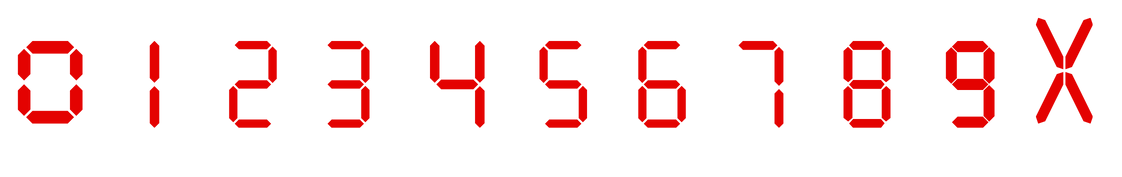
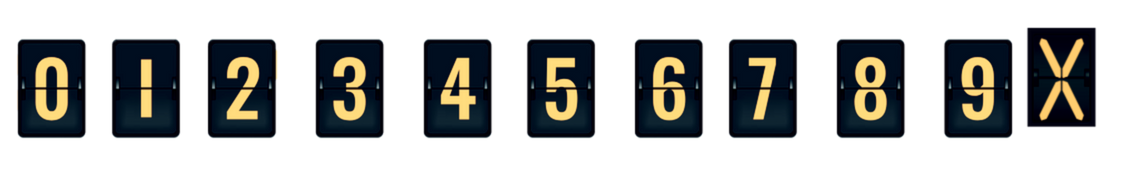
fx

diff --git a/packages/constants-shared/particleConfig/fountain.ts b/packages/constants-shared/particleConfig/fountain.ts
@@ -1,54 +1,19 @@
 export default {
-	alpha: {
-		start: 1,
-		end: 1,
-	},
-	scale: {
-		start: 0.3,
-		end: 0.4,
-		minimumScaleMultiplier: 1,
-	},
-	color: {
-		start: '#ffffff',
-		end: '#ffffff',
-	},
-	speed: {
-		start: 700,
-		end: 800,
-		minimumSpeedMultiplier: 1,
-	},
-	acceleration: {
-		x: 0,
-		y: 600,
-	},
-	maxSpeed: 0,
-	startRotation: {
-		min: 255,
-		max: 285,
-	},
+	alpha: { start: 1, end: 1 },
+	scale: { start: 1.8, end: 0.2, minimumScaleMultiplier: 1 },
+	color: { start: '#fff200', end: '#ff6f00' },
+	speed: { start: 30, end: 30, minimumSpeedMultiplier: 1 },
+	acceleration: { x: 0, y: 0 },
+	maxSpeed: 40,
+	startRotation: { min: 0, max: 0 },
 	noRotation: false,
-	rotationSpeed: {
-		min: -90,
-		max: 90,
-	},
-	lifetime: {
-		min: 6,
-		max: 6,
-	},
-	blendMode: 'normal',
-	frequency: 0.4,
+	rotationSpeed: { min: 0, max: 0 },
+	lifetime: { min: 1, max: 2 },
+	blendMode: 'add',
+	frequency: 0.01,
 	emitterLifetime: -1,
-	maxParticles: 100,
-	pos: {
-		x: 0,
-		y: 0,
-	},
+	maxParticles: 200,
+	pos: { x: -100, y: 200 }, // left edge of the screen
 	addAtBack: false,
-	spawnType: 'rect',
-	spawnRect: {
-		x: -100,
-		y: 0,
-		w: 200,
-		h: 0,
-	},
+	spawnType: 'point',
 };

diff --git a/packages/constants-shared/particleConfig/burst.ts b/packages/constants-shared/particleConfig/burst.ts
@@ -1,0 +1,53 @@
+export default {
+    alpha: {
+        start: 1,
+        end: 0,
+    },
+    scale: {
+        start: 0.5,
+        end: 0.1,
+        minimumScaleMultiplier: 1,
+    },
+    color: {
+        start: '#fff200',
+        end: '#ff6f00',
+    },
+    speed: {
+        start: 30,
+        end: 10,
+        minimumSpeedMultiplier: 1,
+    },
+    acceleration: {
+        x: 0,
+        y: 0,
+    },
+    maxSpeed: 40,
+    startRotation: {
+        min: 0,
+        max: 360,
+    },
+    noRotation: false,
+    rotationSpeed: {
+        min: 0,
+        max: 0,
+    },
+    lifetime: {
+        min: 0.5,
+        max: 1.2,
+    },
+    blendMode: 'add',
+    frequency: 0.001,
+    emitterLifetime: 0.2,
+    maxParticles: 200,
+    pos: {
+        x: 0,
+        y: 0,
+    },
+    addAtBack: false,
+    spawnType: 'burst',
+    spawnCircle: {
+        x: 0,
+        y: 0,
+        r: 80,
+    },
+};

diff --git a/packages/constants-shared/particleConfig/snow.ts b/packages/constants-shared/particleConfig/snow.ts
@@ -1,29 +1,29 @@
 export default {
 	alpha: {
 		start: 1,
-		end: 0.34,
+		end: 0.84,
 	},
 	scale: {
-		start: 0.1,
-		end: 0.35,
-		minimumScaleMultiplier: 0.1,
+		start: 0.3,
+		end: 2.65,
+		minimumScaleMultiplier: 0.3,
 	},
 	color: {
-		start: '#ffffff',
-		end: '#ffffff',
+		start: '#00ff00',
+		end: '#00ff00ff',
 	},
 	speed: {
-		start: 0,
-		end: 1,
+		start: 5,
+		end: 5,
 		minimumSpeedMultiplier: 1,
 	},
 	acceleration: {
-		x: 0,
-		y: 3,
+		x: 1,
+		y: 17,
 	},
 	maxSpeed: 0,
 	startRotation: {
-		min: 0,
+		min: 12,
 		max: 0,
 	},
 	noRotation: false,
@@ -32,13 +32,13 @@ export default {
 		max: 100,
 	},
 	lifetime: {
-		min: 21,
-		max: 40,
+		min: 40,
+		max: 140,
 	},
-	blendMode: 'screen',
+	blendMode: 'add',
 	frequency: 0.4,
 	emitterLifetime: -1,
-	maxParticles: 50,
+	maxParticles: 400,
 	pos: {
 		x: 0,
 		y: 0,

diff --git a/apps/scatter/src/components/WinCoins.svelte b/apps/scatter/src/components/WinCoins.svelte
@@ -1,7 +1,7 @@
 <script lang="ts">
 	import { Container, ParticleEmitter } from 'pixi-svelte';
 	import { MainContainer } from 'components-layout';
-	import { fountain as baseConfig } from 'constants-shared/particleConfig';
+	import { snow as baseConfig } from 'constants-shared/particleConfig';
 	import { LEVEL_PARTICLE_COIN_MAP } from 'constants-shared/particleCoin';
 
 	import { getContext } from '../game/context';
@@ -24,7 +24,7 @@
 	<MainContainer>
 		<Container
 			x={context.stateGameDerived.boardLayout().x}
-			y={context.stateGameDerived.boardLayout().y}
+			y={0}
 		>
 			<ParticleEmitter {config} key="coins" emit={props.emit} />
 		</Container>
